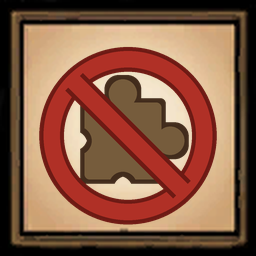
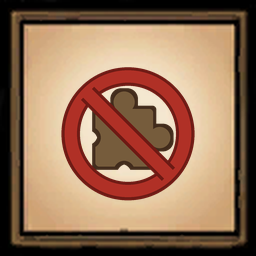
「禁用客户端模组」开关改为和普通 Mod 一样：切换后标记为未保存，点「保存」写入（同步到各世界），「应用到当前世界」只写当前世界；图标里的禁止符号缩小一些

diff --git a/dstools/qt/pages/mod.py b/dstools/qt/pages/mod.py
@@ -30,7 +30,7 @@ from dstools.features.mod.list_model import (
 from dstools.features.mod.local_version import apply_local_version, resolve_local_version_target
 from dstools.features.mod.locations import resolve_mod_open_location
 from dstools.features.mod.manager import (
-    CLIENT_MODS_DISABLED_KEY, enable_mod, load_mod_overrides, save_mod_overrides, set_client_mods_disabled, sync_mods,
+    CLIENT_MODS_DISABLED_KEY, enable_mod, load_mod_overrides, save_mod_overrides, sync_mods,
 )
 from dstools.features.mod.modinfo_cache import parse_modinfo_cached
 from dstools.features.mod.parser import (
@@ -111,11 +111,10 @@ class ModPage(Page):
         self._filter_timer.timeout.connect(self._render_list)
         self._current_shard_name = ""
         self._global_defaults_dialog = None
-        # 列表里"禁用客户端模组"开关行：当前世界 modoverrides.lua 的状态，写盘期间不响应再次点击；
+        # 列表里"禁用客户端模组"开关行：当前世界 modoverrides.lua 的状态（含未保存改动），随"保存"写入；
         # 排序位置按加载时的状态定，跟其它 Mod 一样切换开关不重排
         self._client_mods_disabled = False
         self._client_mods_sort_enabled = False
-        self._client_mods_writing = False
 
         # 更新状态（供 Workshop 更新弹窗共享，避免重复扫描）
         self._workshop_update_running = False
@@ -968,7 +967,7 @@ class ModPage(Page):
         return len(rows)
 
     def _client_mods_switch_row(self, cluster) -> dict | None:
-        """服务器存档的"禁用客户端模组"行：存档级开关，借用 Mod 行的样式，点开关立即写入所有世界（不走"保存"）。
+        """服务器存档的"禁用客户端模组"行：借用 Mod 行的样式，开关跟普通 Mod 一样随"保存"写入。
         本地存档开服时游戏会按启用的 Mod 重写 modoverrides.lua，留不住这个键，所以不显示。"""
         if not cluster or cluster.source != SaveSource.SERVER or not self._current_shard_name:
             return None
@@ -1048,7 +1047,9 @@ class ModPage(Page):
         if not self._editable(self.get_cluster()):
             return
         if workshop_id == CLIENT_MODS_DISABLED_KEY:
-            self._toggle_client_mods_disabled()
+            self._client_mods_disabled = not self._client_mods_disabled
+            self._mark_dirty()
+            self._render_list()
             return
         if self._luajit_mod_locked and workshop_id == luajit_injector.WORKSHOP_MOD_KEY:
             return
@@ -1085,33 +1086,6 @@ class ModPage(Page):
         self._mark_dirty()
         self._update_enabled_count()
         self._render_list()
-
-    def _toggle_client_mods_disabled(self) -> None:
-        cluster = self.get_cluster()
-        if self._client_mods_writing or not cluster or cluster.source != SaveSource.SERVER:
-            return
-        disabled = not self._client_mods_disabled
-        self._client_mods_writing = True
-        self._render_list()
-
-        def finish(ok: bool) -> None:
-            self._client_mods_writing = False
-            current = self.get_cluster()
-            if ok and current is not None and str(current.path) == str(cluster.path):
-                self._client_mods_disabled = disabled
-            self._render_list()
-
-        def done(_written: int) -> None:
-            finish(True)
-            self.ctx.cluster_config_saved.emit(cluster)
-            dialogs.show_toast(self.window(), t("mod.client_mods_disabled_on_toast" if disabled
-                                                else "mod.client_mods_disabled_off_toast"), ms=3000)
-
-        def failed(exc: Exception) -> None:
-            finish(False)
-            dialogs.show_error(self.window(), t("mod.client_mods_disabled"), str(exc))
-
-        run_async(lambda: set_client_mods_disabled(cluster, disabled), done, failed)
 
     def _on_config(self, workshop_id: str) -> None:
         mod = self._mod_data.get(workshop_id)
@@ -1227,6 +1201,7 @@ class ModPage(Page):
 
     # ── 保存 / 应用 ─────────────────────────────────────────────────────
     def _write_mod_states(self, overrides) -> None:
+        overrides.client_mods_disabled = self._client_mods_disabled
         for wid, mod in self._mod_data.items():
             if wid in overrides.mods:
                 overrides.mods[wid].enabled = mod.enabled

diff --git a/tests/test_mod_shared.py b/tests/test_mod_shared.py
@@ -658,46 +658,26 @@ def test_shardindex_save_replaces_only_enabled_mods():
 
 def test_client_mods_disabled_switch_is_not_a_mod():
     """禁用客户端 Mod 的键不当成 Mod；游戏只看真假（enabled=false 也算开启），关闭时整键删除。"""
-    from dstools.features.mod.manager import (
-        client_mods_disabled, load_mod_overrides, save_mod_overrides, set_client_mods_disabled,
-    )
-    from dstools.models import Cluster, SaveSource, Shard
-    from dstools.shared.lua_parser import LuaParseError, parse_lua_file
+    from dstools.features.mod.manager import load_mod_overrides, save_mod_overrides, sync_mods
+    from dstools.models import ModOverrides
+    from dstools.shared.lua_parser import parse_lua_file
 
     with tempfile.TemporaryDirectory() as tmp:
-        root = Path(tmp)
-        master, caves = root / "Master", root / "Caves"
-        master.mkdir()
-        caves.mkdir()
-        (master / "modoverrides.lua").write_text(
-            'return { ["workshop-1"]={ enabled=true, configuration_options={ k=1 } },\n'
-            '  client_mods_disabled={ enabled=false } }', encoding="utf-8")
-        cluster = Cluster(name="c", path=root, source=SaveSource.SERVER,
-                          shards=[Shard("Master", master, mod_overrides_path=master / "modoverrides.lua"),
-                                  Shard("Caves", caves)])
-
-        overrides = load_mod_overrides(master / "modoverrides.lua")
+        path = Path(tmp) / "modoverrides.lua"
+        path.write_text('return { ["workshop-1"]={ enabled=true, configuration_options={ k=1 } },\n'
+                        '  client_mods_disabled={ enabled=false } }', encoding="utf-8")
+        overrides = load_mod_overrides(path)
         assert list(overrides.mods) == ["workshop-1"] and overrides.client_mods_disabled
         save_mod_overrides(overrides)
-        assert parse_lua_file(master / "modoverrides.lua")["client_mods_disabled"] == {"enabled": True}
+        assert parse_lua_file(path)["client_mods_disabled"] == {"enabled": True}
 
-        # 开启时补齐没有 modoverrides.lua 的世界
-        assert set_client_mods_disabled(cluster, True) == 1
-        assert load_mod_overrides(caves / "modoverrides.lua").client_mods_disabled
+        other = ModOverrides(path=Path(tmp) / "Caves.lua")
+        sync_mods(overrides, other)
+        assert other.client_mods_disabled
 
-        assert set_client_mods_disabled(cluster, False) == 2 and not client_mods_disabled(cluster)
-        assert parse_lua_file(master / "modoverrides.lua") == {
-            "workshop-1": {"enabled": True, "configuration_options": {"k": 1}}}
-
-        # 任一世界解析失败时一个文件都不改
-        (caves / "modoverrides.lua").write_text("return { broken", encoding="utf-8")
-        before = (master / "modoverrides.lua").read_bytes()
-        try:
-            set_client_mods_disabled(cluster, True)
-            raise AssertionError("解析失败应抛出")
-        except LuaParseError:
-            pass
-        assert (master / "modoverrides.lua").read_bytes() == before
+        overrides.client_mods_disabled = False
+        save_mod_overrides(overrides)
+        assert parse_lua_file(path) == {"workshop-1": {"enabled": True, "configuration_options": {"k": 1}}}
 
 
 def test_mod_config_memory_two_way_sync():

diff --git a/dstools/features/mod/manager.py b/dstools/features/mod/manager.py
@@ -3,7 +3,7 @@
 from pathlib import Path
 
 from dstools.shared.lua_parser import parse_lua_file, serialize_lua_table
-from dstools.models import Cluster, ModEntry, ModOverrides
+from dstools.models import ModEntry, ModOverrides
 
 # 科雷提供的存档级开关（ModIndex:ApplyEnabledOverrides 特判此键）：开启后玩家加入时本地启用的客户端 Mod
 # 被临时禁用。游戏只看值的真假，{ enabled = false } 也是真，所以关闭时必须删掉整个键。
@@ -86,39 +86,3 @@ def sync_mods(source: ModOverrides, target: ModOverrides) -> None:
             enabled=entry.enabled,
             configuration_options=dict(entry.configuration_options),
         )
-
-
-def _shard_overrides_path(shard) -> Path:
-    return shard.mod_overrides_path or shard.path / "modoverrides.lua"
-
-
-def client_mods_disabled(cluster: Cluster) -> bool:
-    """存档任一世界开启了禁用客户端 Mod（读不了的文件当作未开启）。"""
-    return any(load_mod_overrides(_shard_overrides_path(shard)).client_mods_disabled for shard in cluster.shards)
-
-
-def set_client_mods_disabled(cluster: Cluster, disabled: bool) -> int:
-    """在存档所有世界的 modoverrides.lua 里写入或删除禁用客户端 Mod 键，返回改写的文件数。
-
-    整个存档统一设置：玩家换世界时按目标世界的设置重新判断。只增删这一个键，其余内容按原样解析后写回；
-    先全部解析成功再动手，解析失败直接抛出，不能当成空配置写回把 Mod 清掉。"""
-    tables = {}
-    for shard in cluster.shards:
-        path = _shard_overrides_path(shard)
-        if path.is_file():
-            data = parse_lua_file(path)
-            tables[path] = data if isinstance(data, dict) else {}
-        elif disabled:
-            tables[path] = {}
-    written = 0
-    for path, data in tables.items():
-        if disabled:
-            if data.get(CLIENT_MODS_DISABLED_KEY) == {"enabled": True}:
-                continue
-            data[CLIENT_MODS_DISABLED_KEY] = {"enabled": True}
-        elif data.pop(CLIENT_MODS_DISABLED_KEY, None) is None:
-            continue
-        path.parent.mkdir(parents=True, exist_ok=True)
-        path.write_text(serialize_lua_table(data), encoding="utf-8")
-        written += 1
-    return written

diff --git a/dstools/i18n/strings.py b/dstools/i18n/strings.py
@@ -1118,9 +1118,7 @@ STRINGS = {
         "mod.default_state_saved": "已保存在 DSTCamp",
         "mod.global_defaults_btn": "全局默认配置",
         "mod.client_mods_disabled": "禁用客户端模组",
-        "mod.client_mods_disabled_desc": "玩家进服时临时禁用其客户端模组 · 立即写入所有世界，下次开服生效",
-        "mod.client_mods_disabled_on_toast": "已禁用客户端模组，下次开服生效",
-        "mod.client_mods_disabled_off_toast": "已允许客户端模组，下次开服生效",
+        "mod.client_mods_disabled_desc": "玩家进服时临时禁用其客户端模组，保存后下次开服生效",
         "mod.global_defaults_title": "全局默认配置",
         "mod.global_defaults_search": "搜索名称或 ID",
         "mod.global_defaults_configured": "已设置",
@@ -2819,11 +2817,7 @@ STRINGS = {
         "mod.default_state_saved": "Saved in DSTCamp",
         "mod.global_defaults_btn": "Global Default Configs",
         "mod.client_mods_disabled": "Disable client mods",
-        "mod.client_mods_disabled_desc": (
-            "Temporarily disables joining players' client mods · Saved to all worlds at once, applies on next start"
-        ),
-        "mod.client_mods_disabled_on_toast": "Client mods disabled; takes effect on the next start",
-        "mod.client_mods_disabled_off_toast": "Client mods allowed; takes effect on the next start",
+        "mod.client_mods_disabled_desc": "Temporarily disables joining players' client mods; applies on next start after saving",
         "mod.global_defaults_title": "Global Default Configs",
         "mod.global_defaults_search": "Search name or ID",
         "mod.global_defaults_configured": "Configured",
